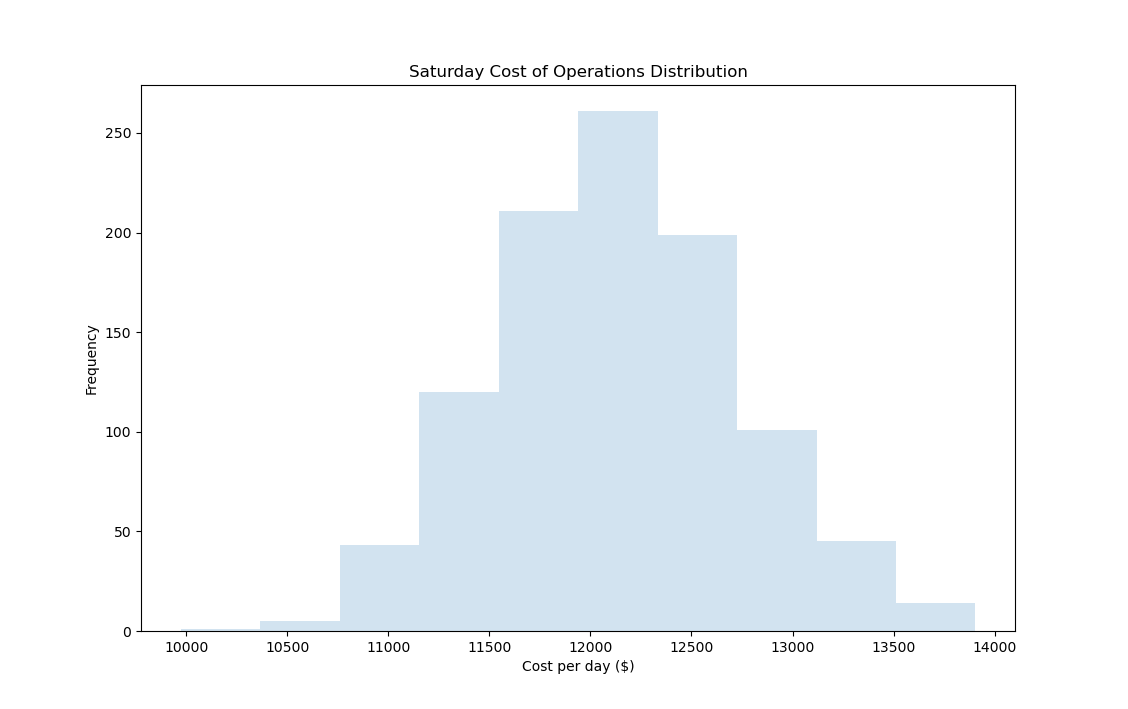
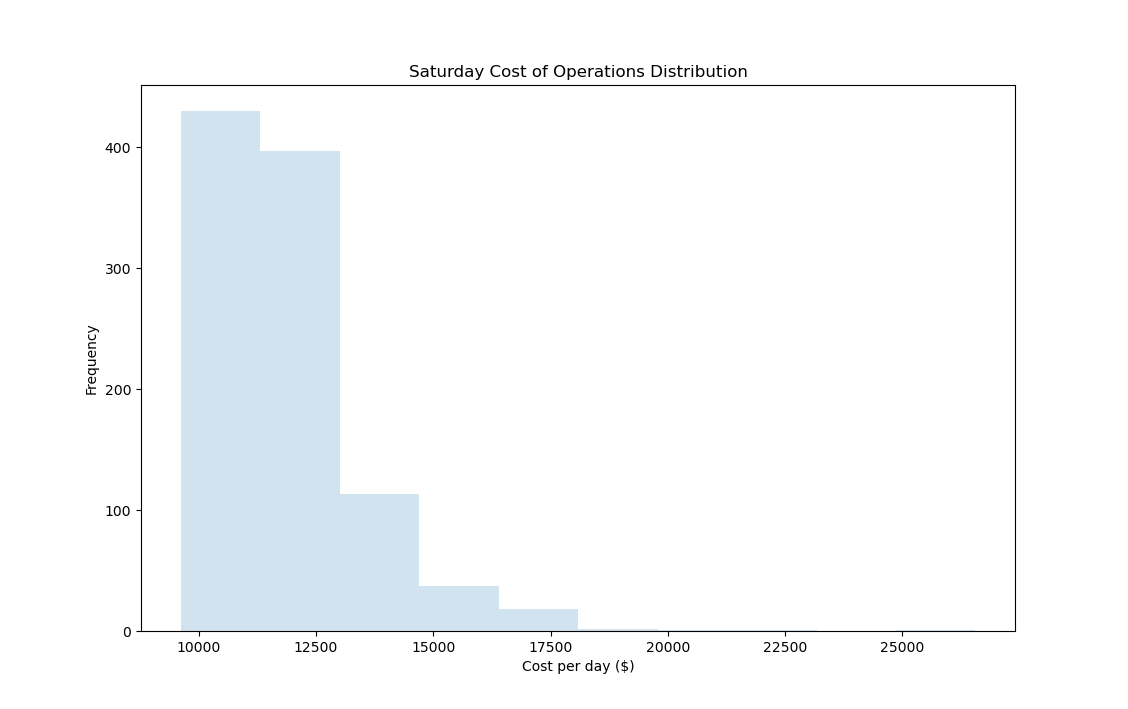
Comitting all changes not in main branch

diff --git a/Simulations.py b/Simulations.py
@@ -8,6 +8,8 @@ import random
 from routeFuncsNikhil import *
 from TrafficDistributionFunctions import *
 from trafficSimulations import calcCost
+from statistics import stdev
+import seaborn as sns
 
 
 def groupDemands():
@@ -105,6 +107,8 @@ def combineRoutes(Routes, Demands):
 
     
 if __name__ == "__main__":
+
+
     # Load demand data
     data = groupDemands()
 
@@ -165,25 +169,35 @@ if __name__ == "__main__":
         
         # Traffic effect
         if (len(totalRouteTime) <= 30):
-            aMorn = findmin(weekday_8am.to_numpy())
-            bMorn = findavg(weekday_8am.to_numpy())
-            cMorn = findmax(weekday_8am.to_numpy())
+            # aMorn = findmin(weekday_8am.to_numpy())
+            # bMorn = findavg(weekday_8am.to_numpy())
+            # cMorn = findmax(weekday_8am.to_numpy())
 
-            trafficMultiplierMorn = pert(aMorn,bMorn,cMorn)/100 + 1
+            # trafficMultiplierMorn = pert(aMorn,bMorn,cMorn)/100 + 1
+
+            meanMorn = findavg(weekday_8am.to_numpy())
+
+            trafficMultiplierMorn = np.random.exponential(meanMorn, 1)/100 + 1
 
             newTimes = totalRouteTime*trafficMultiplierMorn
 
         else:
-            aMorn = findmin(weekday_8am.to_numpy())
-            bMorn = findavg(weekday_8am.to_numpy())
-            cMorn = findmax(weekday_8am.to_numpy())
-            trafficMultiplierMorn = pert(aMorn,bMorn,cMorn)/100 + 1
+            # aMorn = findmin(weekday_8am.to_numpy())
+            # bMorn = findavg(weekday_8am.to_numpy())
+            # cMorn = findmax(weekday_8am.to_numpy())
+            # trafficMultiplierMorn = pert(aMorn,bMorn,cMorn)/100 + 1
+
+            # aAft = findmin(weekday_2pm.to_numpy())
+            # bAft = findavg(weekday_2pm.to_numpy())
+            # cAft = findmax(weekday_2pm.to_numpy())
+            # trafficMultiplierAft = pert(aAft,bAft,cAft)/100 + 1
+
+            meanMorn = findavg(weekday_8am.to_numpy())
+            trafficMultiplierMorn = np.random.exponential(meanMorn, 1)/100 + 1
 
 
-            aAft = findmin(weekday_2pm.to_numpy())
-            bAft = findavg(weekday_2pm.to_numpy())
-            cAft = findmax(weekday_2pm.to_numpy())
-            trafficMultiplierAft = pert(aAft,bAft,cAft)/100 + 1
+            meanAft = findavg(weekday_2pm.to_numpy())
+            trafficMultiplierAft = np.random.exponential(meanAft, 1)/100 + 1
 
 
             # if (len(totalRouteTime) != 31):
@@ -204,6 +218,10 @@ if __name__ == "__main__":
     plt.title("Weekday Cost of Operations Distribution")
     plt.xlabel('Cost per day ($)')
     plt.ylabel('Frequency')
+
+    with open('savedWkDaySim.pkl','wb') as f:
+        pickle.dump(WeekdayCost, f)
+    
 
     ##### SATURDAYS SIMULATION #######
     weekend_8am = (congestion[["8am","9am","10am","11am"]]).loc["Sat":"Sun"]
@@ -248,25 +266,33 @@ if __name__ == "__main__":
 
         # Traffic effect
         if (len(totalRouteTime) <= 30):
-            aMorn = findmin(weekend_8am.to_numpy())
-            bMorn = findavg(weekend_8am.to_numpy())
-            cMorn = findmax(weekend_8am.to_numpy())
+            # aMorn = findmin(weekend_8am.to_numpy())
+            # bMorn = findavg(weekend_8am.to_numpy())
+            # cMorn = findmax(weekend_8am.to_numpy())
 
-            trafficMultiplierMorn = pert(aMorn,bMorn,cMorn)/100 + 1
+            # trafficMultiplierMorn = pert(aMorn,bMorn,cMorn)/100 + 1
+            meanMorn = findavg(weekend_8am.to_numpy())
+            trafficMultiplierMorn = np.random.exponential(meanMorn, 1)/100 + 1
 
             newTimes = totalRouteTime*trafficMultiplierMorn
         
         else:
-            aMorn = findmin(weekend_8am.to_numpy())
-            bMorn = findavg(weekend_8am.to_numpy())
-            cMorn = findmax(weekend_8am.to_numpy())
-            trafficMultiplierMorn = pert(aMorn,bMorn,cMorn)/100 + 1
+            # aMorn = findmin(weekend_8am.to_numpy())
+            # bMorn = findavg(weekend_8am.to_numpy())
+            # cMorn = findmax(weekend_8am.to_numpy())
+            # trafficMultiplierMorn = pert(aMorn,bMorn,cMorn)/100 + 1
 
 
-            aAft = findmin(weekend_2pm.to_numpy())
-            bAft = findavg(weekend_2pm.to_numpy())
-            cAft = findmax(weekend_2pm.to_numpy())
-            trafficMultiplierAft = pert(aAft,bAft,cAft)/100 + 1
+            # aAft = findmin(weekend_2pm.to_numpy())
+            # bAft = findavg(weekend_2pm.to_numpy())
+            # cAft = findmax(weekend_2pm.to_numpy())
+            # trafficMultiplierAft = pert(aAft,bAft,cAft)/100 + 1
+
+            meanMorn = findavg(weekend_8am.to_numpy())
+            trafficMultiplierMorn = np.random.exponential(meanMorn, 1)/100 + 1
+
+            meanAft = findavg(weekend_2pm.to_numpy())
+            trafficMultiplierAft = np.random.exponential(meanAft, 1)/100 + 1
 
             newTimes = np.append((np.array(totalRouteTime)[0:30])*trafficMultiplierMorn, (np.array(totalRouteTime)[30:])*trafficMultiplierAft, axis = 0)
 
@@ -280,6 +306,9 @@ if __name__ == "__main__":
     plt.xlabel('Cost per day ($)')
     plt.ylabel('Frequency')
     # plt.hist(ExpectedTimes, density=True, histtype='stepfilled', alpha=0.2)
+
+    with open('savedSatDaySim.pkl','wb') as f:
+        pickle.dump(satCost, f)
 
     # Average cost time
     print("Weekday average cost: ", np.mean(WeekdayCost))
@@ -297,6 +326,11 @@ if __name__ == "__main__":
     # # Error rate
     # error = sum(np.greater(CompletionTimes, ExpectedTimes))/len(CompletionTimes)
     # print("error = ", error)
+
+    # fig, ax = plt.subplots()
+    # for a in [WeekdayCost, satCost]:
+    #     sns.distplot(a, ax=ax, kde=False)
+
     plt.show()
     plt.savefig('Hist.png')
 

diff --git a/Store Closing files/Simulations.py b/Store Closing files/Simulations.py
@@ -168,25 +168,20 @@ if __name__ == "__main__":
         
         # Traffic effect
         if (len(totalRouteTime) <= 30):
-            aMorn = findmin(weekday_8am.to_numpy())
-            bMorn = findavg(weekday_8am.to_numpy())
-            cMorn = findmax(weekday_8am.to_numpy())
+            meanMorn = findavg(weekday_8am.to_numpy())
 
-            trafficMultiplierMorn = pert(aMorn,bMorn,cMorn)/100 + 1
+            trafficMultiplierMorn = np.random.exponential(meanMorn, 1)/100 + 1
 
             newTimes = totalRouteTime*trafficMultiplierMorn
 
         else:
-            aMorn = findmin(weekday_8am.to_numpy())
-            bMorn = findavg(weekday_8am.to_numpy())
-            cMorn = findmax(weekday_8am.to_numpy())
-            trafficMultiplierMorn = pert(aMorn,bMorn,cMorn)/100 + 1
+            meanMorn = findavg(weekday_8am.to_numpy())
+
+            trafficMultiplierMorn = np.random.exponential(meanMorn, 1)/100 + 1
 
 
-            aAft = findmin(weekday_2pm.to_numpy())
-            bAft = findavg(weekday_2pm.to_numpy())
-            cAft = findmax(weekday_2pm.to_numpy())
-            trafficMultiplierAft = pert(aAft,bAft,cAft)/100 + 1
+            meanAft = findavg(weekday_2pm.to_numpy())
+            trafficMultiplierAft = np.random.exponential(meanAft, 1)/100 + 1
 
 
             # if (len(totalRouteTime) != 31):
@@ -207,6 +202,9 @@ if __name__ == "__main__":
     plt.title("Weekday Cost of Operations Distribution")
     plt.xlabel('Cost per day ($)')
     plt.ylabel('Frequency')
+
+    with open('savedWkDayRemSim.pkl','wb') as f:
+        pickle.dump(WeekdayCost, f)
 
     ##### SATURDAYS SIMULATION #######
     weekend_8am = (congestion[["8am","9am","10am","11am"]]).loc["Sat":"Sun"]
@@ -251,25 +249,18 @@ if __name__ == "__main__":
 
         # Traffic effect
         if (len(totalRouteTime) <= 30):
-            aMorn = findmin(weekend_8am.to_numpy())
-            bMorn = findavg(weekend_8am.to_numpy())
-            cMorn = findmax(weekend_8am.to_numpy())
-
-            trafficMultiplierMorn = pert(aMorn,bMorn,cMorn)/100 + 1
+            meanMorn = findavg(weekend_8am.to_numpy())
+            trafficMultiplierMorn = np.random.exponential(meanMorn, 1)/100 + 1
 
             newTimes = totalRouteTime*trafficMultiplierMorn
         
         else:
-            aMorn = findmin(weekend_8am.to_numpy())
-            bMorn = findavg(weekend_8am.to_numpy())
-            cMorn = findmax(weekend_8am.to_numpy())
-            trafficMultiplierMorn = pert(aMorn,bMorn,cMorn)/100 + 1
+            meanMorn = findavg(weekend_8am.to_numpy())
+            trafficMultiplierMorn = np.random.exponential(meanMorn, 1)/100 + 1
 
 
-            aAft = findmin(weekend_2pm.to_numpy())
-            bAft = findavg(weekend_2pm.to_numpy())
-            cAft = findmax(weekend_2pm.to_numpy())
-            trafficMultiplierAft = pert(aAft,bAft,cAft)/100 + 1
+            meanAft = findavg(weekend_2pm.to_numpy())
+            trafficMultiplierAft = np.random.exponential(meanAft, 1)/100 + 1
 
             newTimes = np.append((np.array(totalRouteTime)[0:30])*trafficMultiplierMorn, (np.array(totalRouteTime)[30:])*trafficMultiplierAft, axis = 0)
 
@@ -283,6 +274,9 @@ if __name__ == "__main__":
     plt.xlabel('Cost per day ($)')
     plt.ylabel('Frequency')
     # plt.hist(ExpectedTimes, density=True, histtype='stepfilled', alpha=0.2)
+
+    with open('savedSatDayRemSim.pkl','wb') as f:
+        pickle.dump(satCost, f)
 
     # Average cost time
     print("Weekday average cost: ", np.mean(WeekdayCost))

diff --git a/SimHist.py b/SimHist.py
@@ -1,0 +1,74 @@
+import seaborn as sns
+import pickle
+import matplotlib.pyplot as plt
+import numpy as np
+
+
+with open('savedWkDaySim.pkl','rb') as f:
+    WeekdayCost = pickle.load(f)
+
+with open('savedWkDayRemSim.pkl','rb') as f:
+    WeekdayCostRem = pickle.load(f)
+
+with open('savedSatDaySim.pkl','rb') as f:
+    satCost = pickle.load(f)
+
+with open('savedSatDayRemSim.pkl','rb') as f:
+    satCostRem = pickle.load(f)
+
+
+f1, ax1 = plt.subplots(1,2)
+sns.distplot(WeekdayCost, ax=ax1[0], kde=False,label = 'All stores open')
+sns.distplot(WeekdayCostRem, ax=ax1[0], kde=False,label = 'After Store Removal').set(title = "Weekday Cost of Operations Distribution", xlabel = 'Cost per day ($)', ylabel = 'Frequency')
+ax1[0].legend()
+
+WeekdayCost.sort()
+ax1[0].axvline(WeekdayCost[25])
+ax1[0].text(WeekdayCost[25]+1,1, '95% CI', rotation = 90, color = 'blue')
+
+ax1[0].axvline(WeekdayCost[975])
+ax1[0].text(WeekdayCost[975]+1,1, '95% CI', rotation = 90, color = 'blue')
+
+WeekdayCostRem.sort()
+ax1[0].axvline(WeekdayCostRem[25], color = 'orange')
+ax1[0].text(WeekdayCostRem[25]+1,1, '95% CI', rotation = 90, color = 'orange')
+
+ax1[0].axvline(WeekdayCostRem[975], color = 'orange')
+ax1[0].text(WeekdayCostRem[975]+1,1, '95% CI', rotation = 90, color = 'orange')
+
+# f2, ax1[1] = plt.subplots()
+sns.distplot(satCost, ax=ax1[1], kde=False,label = 'All stores open')
+sns.distplot(satCostRem, ax=ax1[1], kde=False,label = 'After Store Removal').set(title = "Saturday Cost of Operations Distribution", xlabel = 'Cost per day ($)', ylabel = 'Frequency')
+ax1[1].legend()
+
+satCost.sort()
+ax1[1].axvline(satCost[25])
+ax1[1].text(satCost[25]+1,1, '95% CI', rotation = 90, color = 'blue')
+
+ax1[1].axvline(satCost[975])
+ax1[1].text(satCost[975]+1,1, '95% CI', rotation = 90, color = 'blue')
+
+satCostRem.sort()
+ax1[1].axvline(satCostRem[25], color = 'orange')
+ax1[1].text(satCostRem[25]+1,1, '95% CI', rotation = 90, color = 'orange')
+
+ax1[1].axvline(satCostRem[975], color = 'orange')
+ax1[1].text(satCostRem[975]+1,1, '95% CI', rotation = 90, color = 'orange')
+
+print('---------------------------------------------------------')
+print('For all stores:')
+print("Weekday average cost: ", np.mean(WeekdayCost))
+print("Saturday average cost: ", np.mean(satCost))
+print("Weekday interval", WeekdayCost[25], " to ", WeekdayCost[975])
+print("Saturday interval", satCost[25], " to ", satCost[975])
+print('---------------------------------------------------------')
+print('For all stores:')
+print("Weekday average cost: ", np.mean(WeekdayCostRem))
+print("Saturday average cost: ", np.mean(satCostRem))
+print("Weekday interval", WeekdayCostRem[25], " to ", WeekdayCostRem[975])
+print("Saturday interval", satCostRem[25], " to ", satCostRem[975])
+print('---------------------------------------------------------')
+
+
+plt.show()
+

diff --git a/Store Closing files/TrafficDistributionFunctions.py b/Store Closing files/TrafficDistributionFunctions.py
@@ -35,6 +35,8 @@ def pert(a,b,c,*, lamb=4):
     beta = 1 + lamb * (c - b) / r
     return a + betavariate(alpha, beta) * r
 
+
+
 def findmax(list):
     '''
     Finds max value in dataframe
